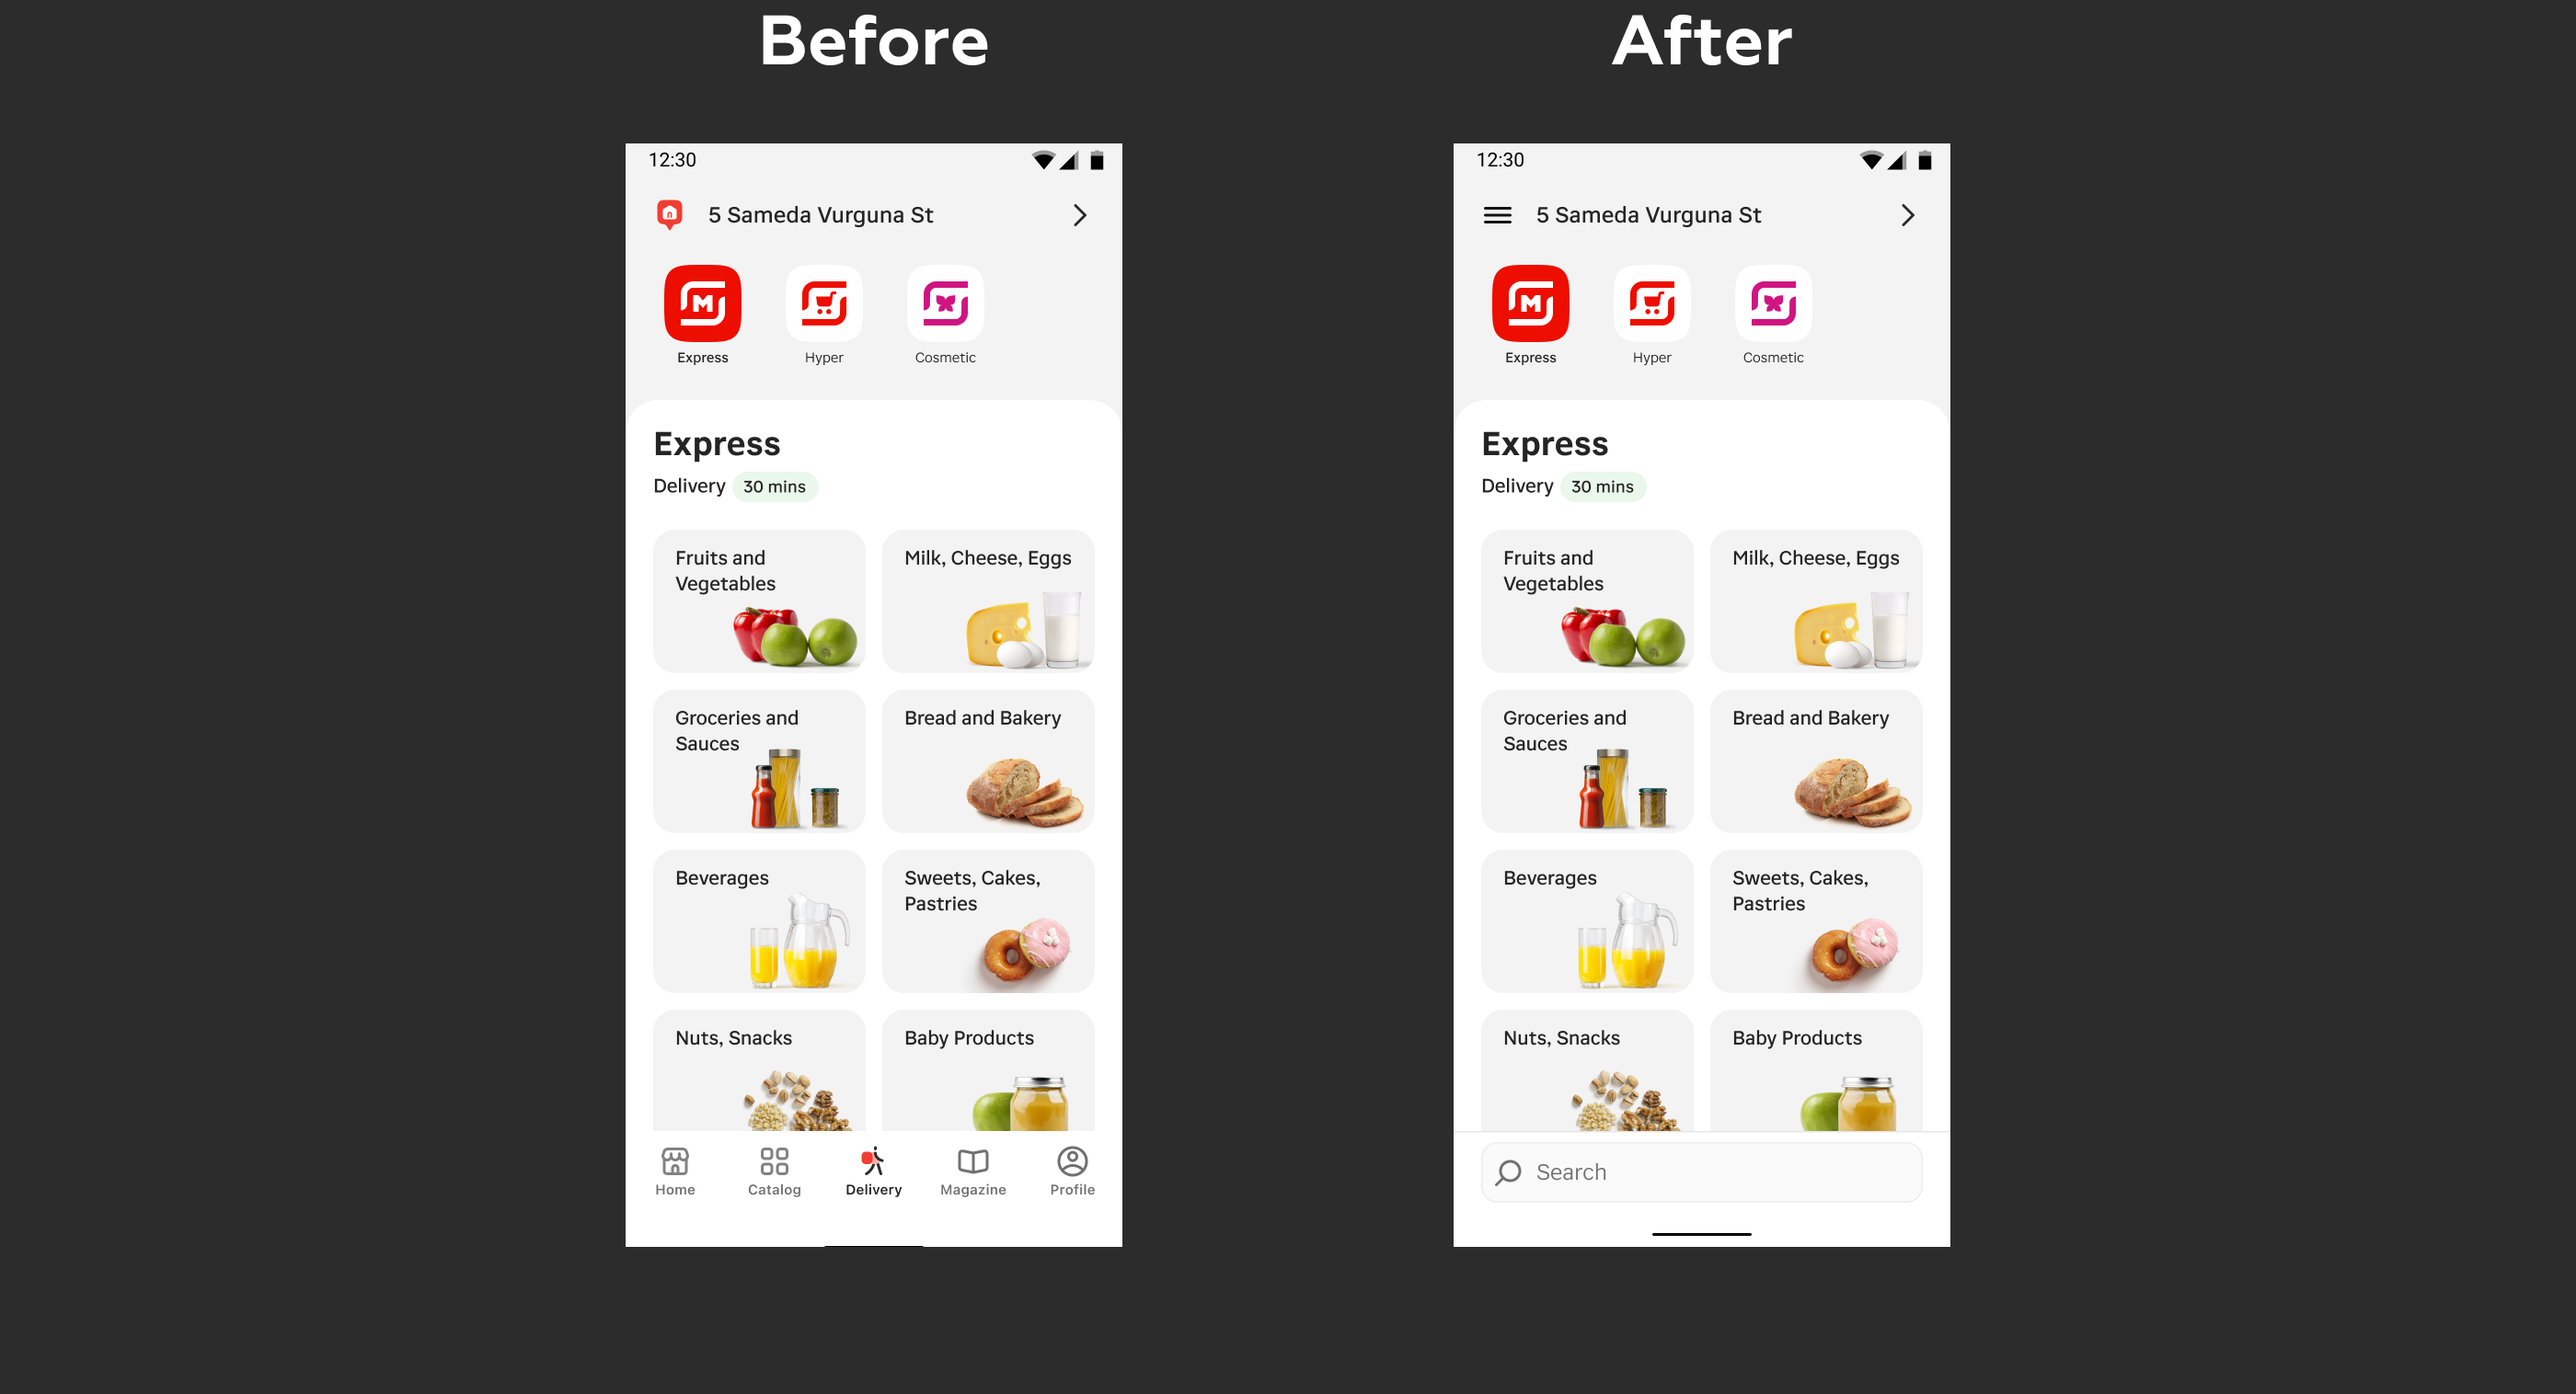
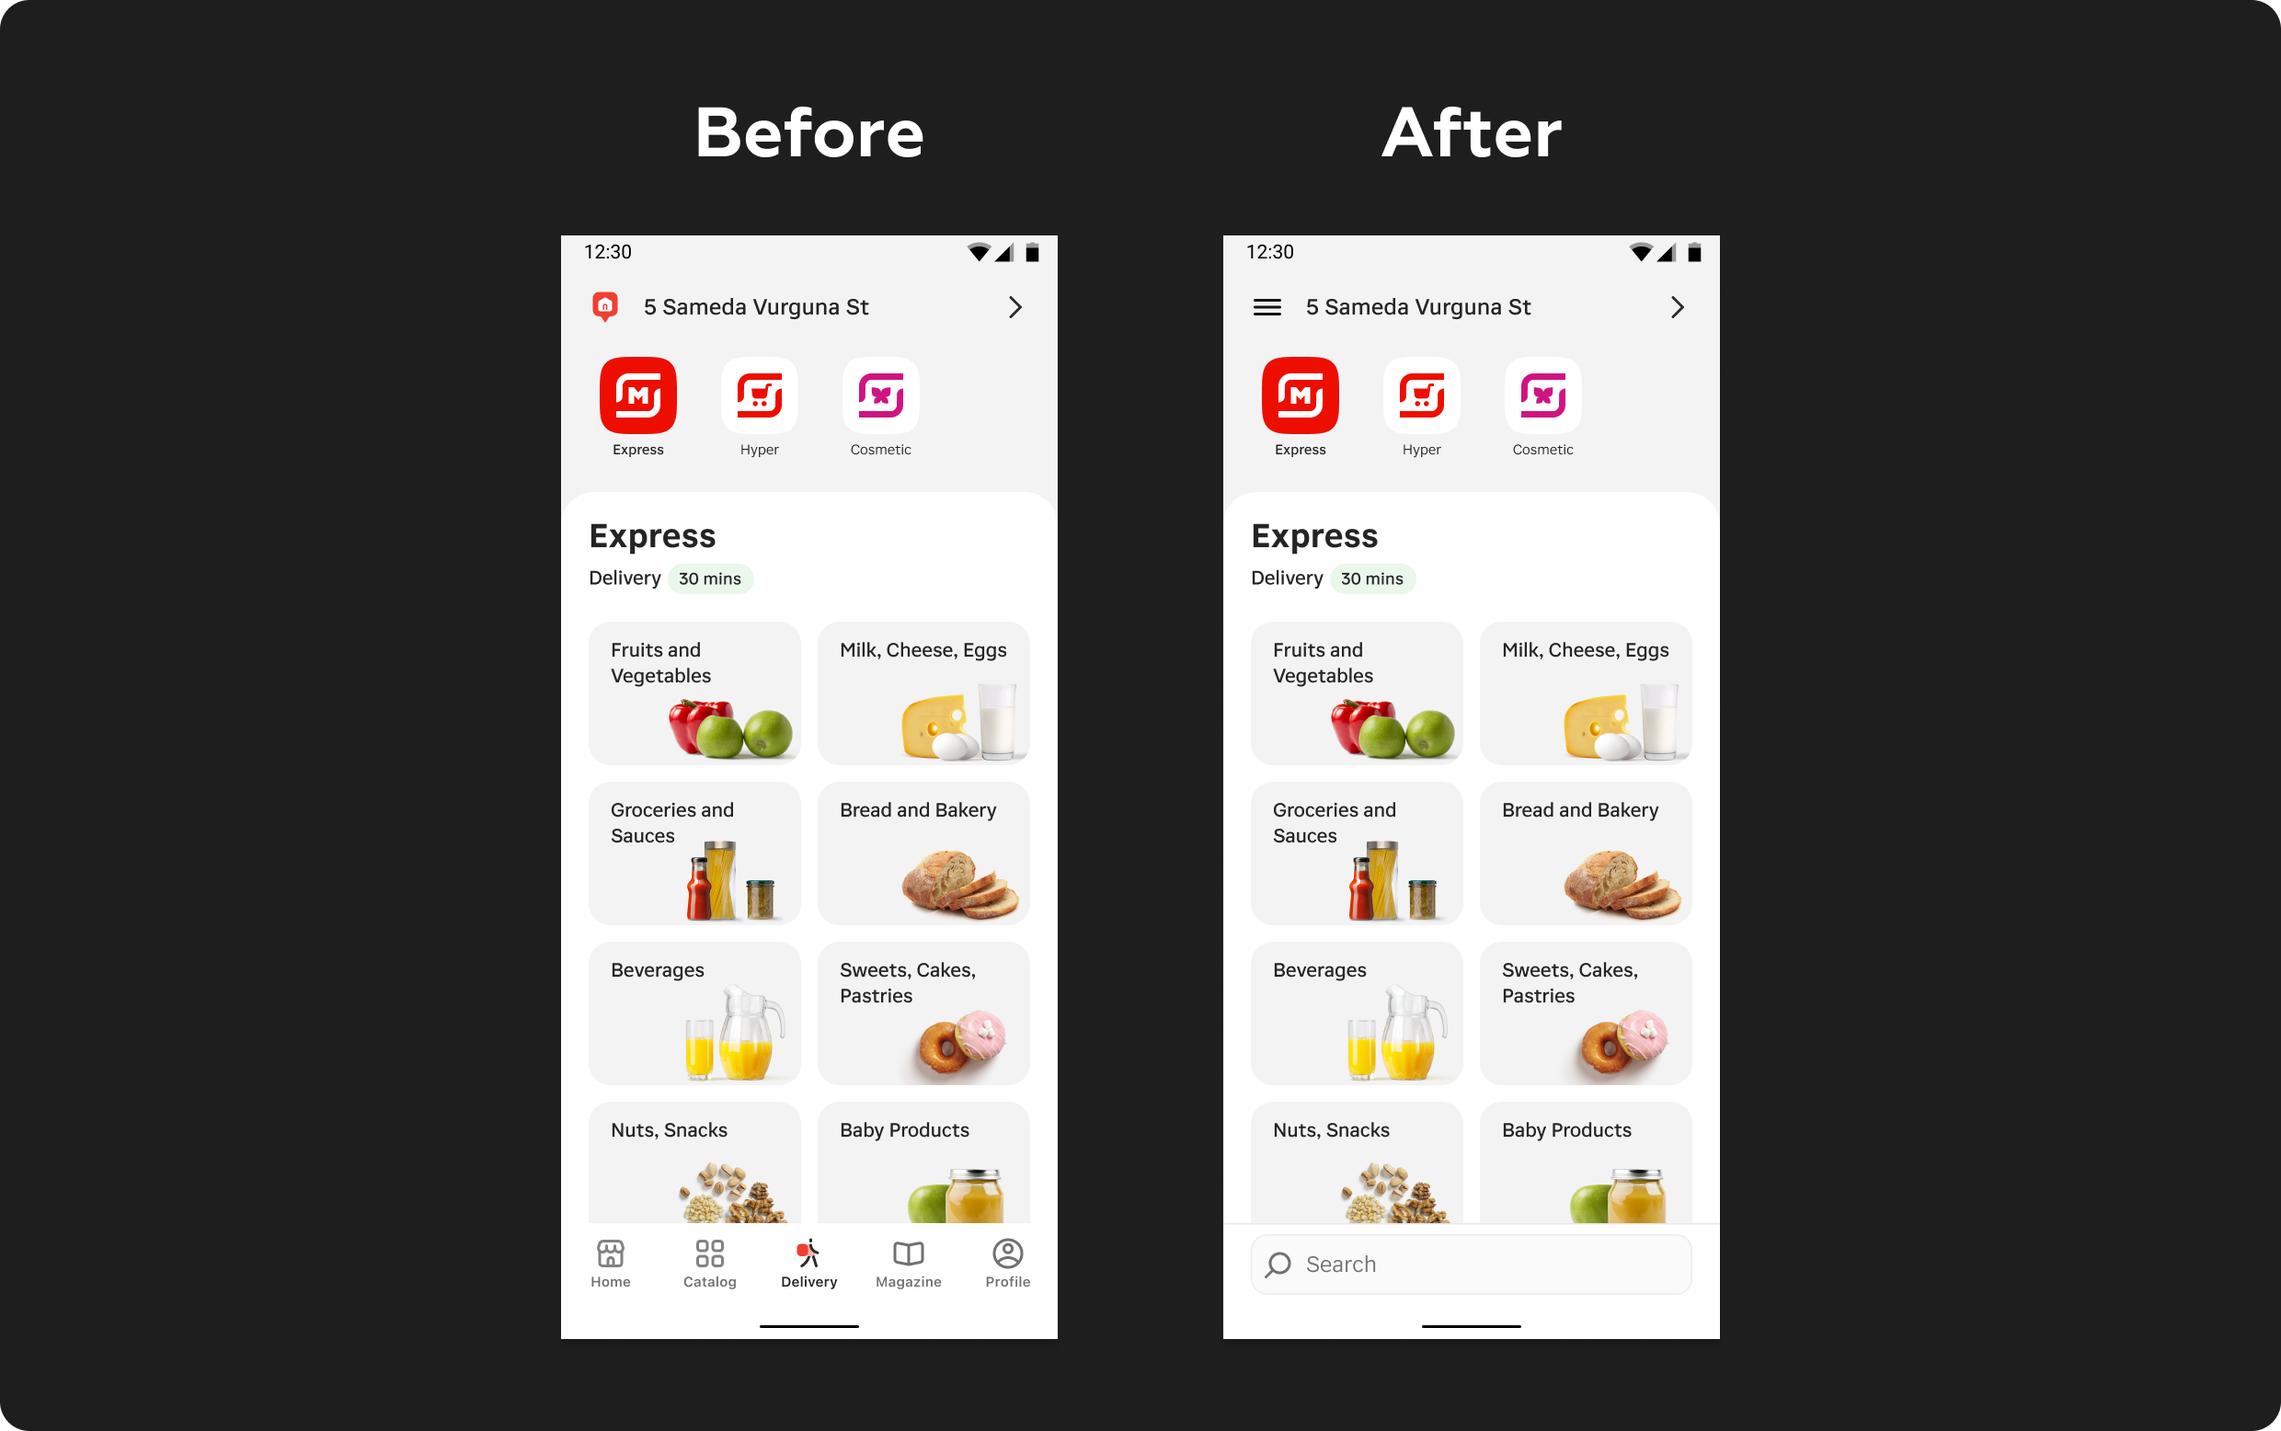
v.0.0.31

diff --git a/pages/project-5.js b/pages/project-5.js
@@ -1,18 +1,28 @@
+import React, { useEffect, useState } from "react";
 import Head from "next/head";
-import React from "react";
 import Header from "../components/Header";
 import Footer from "../components/Footer";
 import ServiceCard from "../components/ServiceCard";
 import WorkCard from "../components/WorkCard";
 import data from "../data/portfolio.json";
 import Cursor from "../components/Cursor";
+import { useTheme } from "next-themes";
+import { useRouter } from "next/router";
 
 const ProjectSix = () => {
+  const router = useRouter();
+  const { theme } = useTheme();
+  const [mounted, setMounted] = useState(false);
+
   const project = data.projects.find((p) => p.id === "5");
 
   const filteredProjects = data.projects.filter((p) => p.url !== project.url && p.id !== "64565912-3f25-4c21-8a6b-bb372a08a2c8");
   const totalProjects = filteredProjects.length;
   const reversedProjects = filteredProjects.slice(Math.max(totalProjects - 3, 0)).reverse();
+
+useEffect(() => {
+  setMounted(true);
+}, []);
 
   return (
     <div className={`relative ${data.showCursor && "cursor-none"}`}>
@@ -27,9 +37,36 @@ const ProjectSix = () => {
       <div className="container mx-auto my-10 laptop:px-10">
         <h1 className="text-3xl tablet:text-6xl laptop:text-6xl laptopl:text-8xl text-bold">{project.title}</h1>
         <p className="my-5">{project.description}</p>
-        <img src="../img/project-5/5-1.png" className="w-full" alt="What We Implemented and the Problems Solved"/>
-        <img src="../img/project-5/5-2.png" className="w-full" alt="UI delivery app. Search field at the bottom"/>
-        <img src="../img/project-5/5-3.png" className="w-full" alt="Research Scenarios and Goals"/>
+        <div className="pt-16 laptop:px-6 tablet:px-4">
+          <h2 className="text-3xl mt-5 font-bold">Introduction</h2>
+          <h2 className="text-xl my-5">In this presentation, we will discuss the insights we gained from users regarding the placement of the search feature at the bottom of the grocery delivery app.</h2>
+        </div>
+          <img
+            src={
+              theme === "light" 
+              ? "/img/project-5/5-1w.png" 
+              : "/img/project-5/5-1.png"
+            }
+            className="w-full"
+            alt="What We Implemented and the Problems Solved"
+          />
+          <img
+            src={
+              theme === "light" 
+              ? "/img/project-5/5-2w.png" 
+              : "/img/project-5/5-2.png"
+            }
+            className="w-full"
+            alt="UI delivery app. Search field at the bottom"
+          />
+        <div className="pt-16 laptop:px-6 tablet:px-4">
+          <h2 className="text-3xl mt-5 font-bold">Research Scenarios and Goals</h2>
+          <h2 className="text-2xl mt-5" style={{ color:'#D92F78' }}>Test the Navigation</h2>
+          <h2 className="text-xl my-5">To determine if users can find the necessary menu item without a bottom tab bar, we asked them to locate the order history section from the new main screen.</h2>
+          <h2 className="text-2xl mt-5" style={{ color:'#D92F78' }}>Assess User Opinions on Bottom-Mounted Search</h2>
+          <h2 className="text-xl my-5">The primary scenario involved users searching for milk and adding it to their cart to gather insights on their preferences regarding the new search placement.</h2>
+          <h2 className="text-xl my-5">Below are several screens in a prototype</h2>
+        </div>
         <div style={{ position: "relative", paddingBottom: "56.25%", height: 0 }}>
             <iframe
                 src="https://player.vimeo.com/video/850056480?transparent=0&autoplay=1&loop=1&muted=0&portrait=0&byline=0&h=2697d04fbb&amp;badge=0&amp;autopause=0&amp;player_id=0&amp;app_id=58479"
@@ -37,7 +74,24 @@ const ProjectSix = () => {
                 style={{ position: "absolute", top: 0, left: 0, width: "100%", height: "100%" }}
             />
         </div>
-        <img src="../img/project-5/5-5.png" className="w-full" alt="UX Design Research Findings"/>
+        <div className="pt-16 laptop:px-6 tablet:px-4">
+          <h2 className="text-3xl my-5 font-bold">Research Findings</h2>
+        </div>
+          <img
+            src={
+              theme === "light" 
+              ? "/img/project-5/5-3w.png" 
+              : "/img/project-5/5-3.png"
+            }
+            className="w-full"
+            alt="Research Scenarios and Goals"
+          />
+        <div className="pt-16 laptop:px-6 tablet:px-4">
+          <h2 className="text-2xl mt-5" style={{ color:'#D92F78' }}>User Quotes</h2>
+          <h2 className="text-xl my-5">&apos;&apos;Everything I need is right here, and there&apos;s nothing unnecessary. Everything else is hidden in the menu.&apos;&apos;</h2>
+          <h2 className="text-xl my-5">&apos;&apos;The search function was already convenient in the previous app, but the new solution makes it more interesting and modern. Everything is within reach.&apos;&apos;</h2>
+          <h2 className="text-xl my-5">Overall, the user feedback has been positive, and we are confident that this new update will elevate the grocery shopping experience for our customers.</h2>
+        </div>
         <h2 className="mt-40 text-3xl tablet:text-6xl laptop:text-6xl laptopl:text-8xl text-bold">You May also like</h2>
         <div className="mt-5 grid grid-cols-1 tablet:grid-cols-3 gap-4">
           {reversedProjects.map((p) => (
